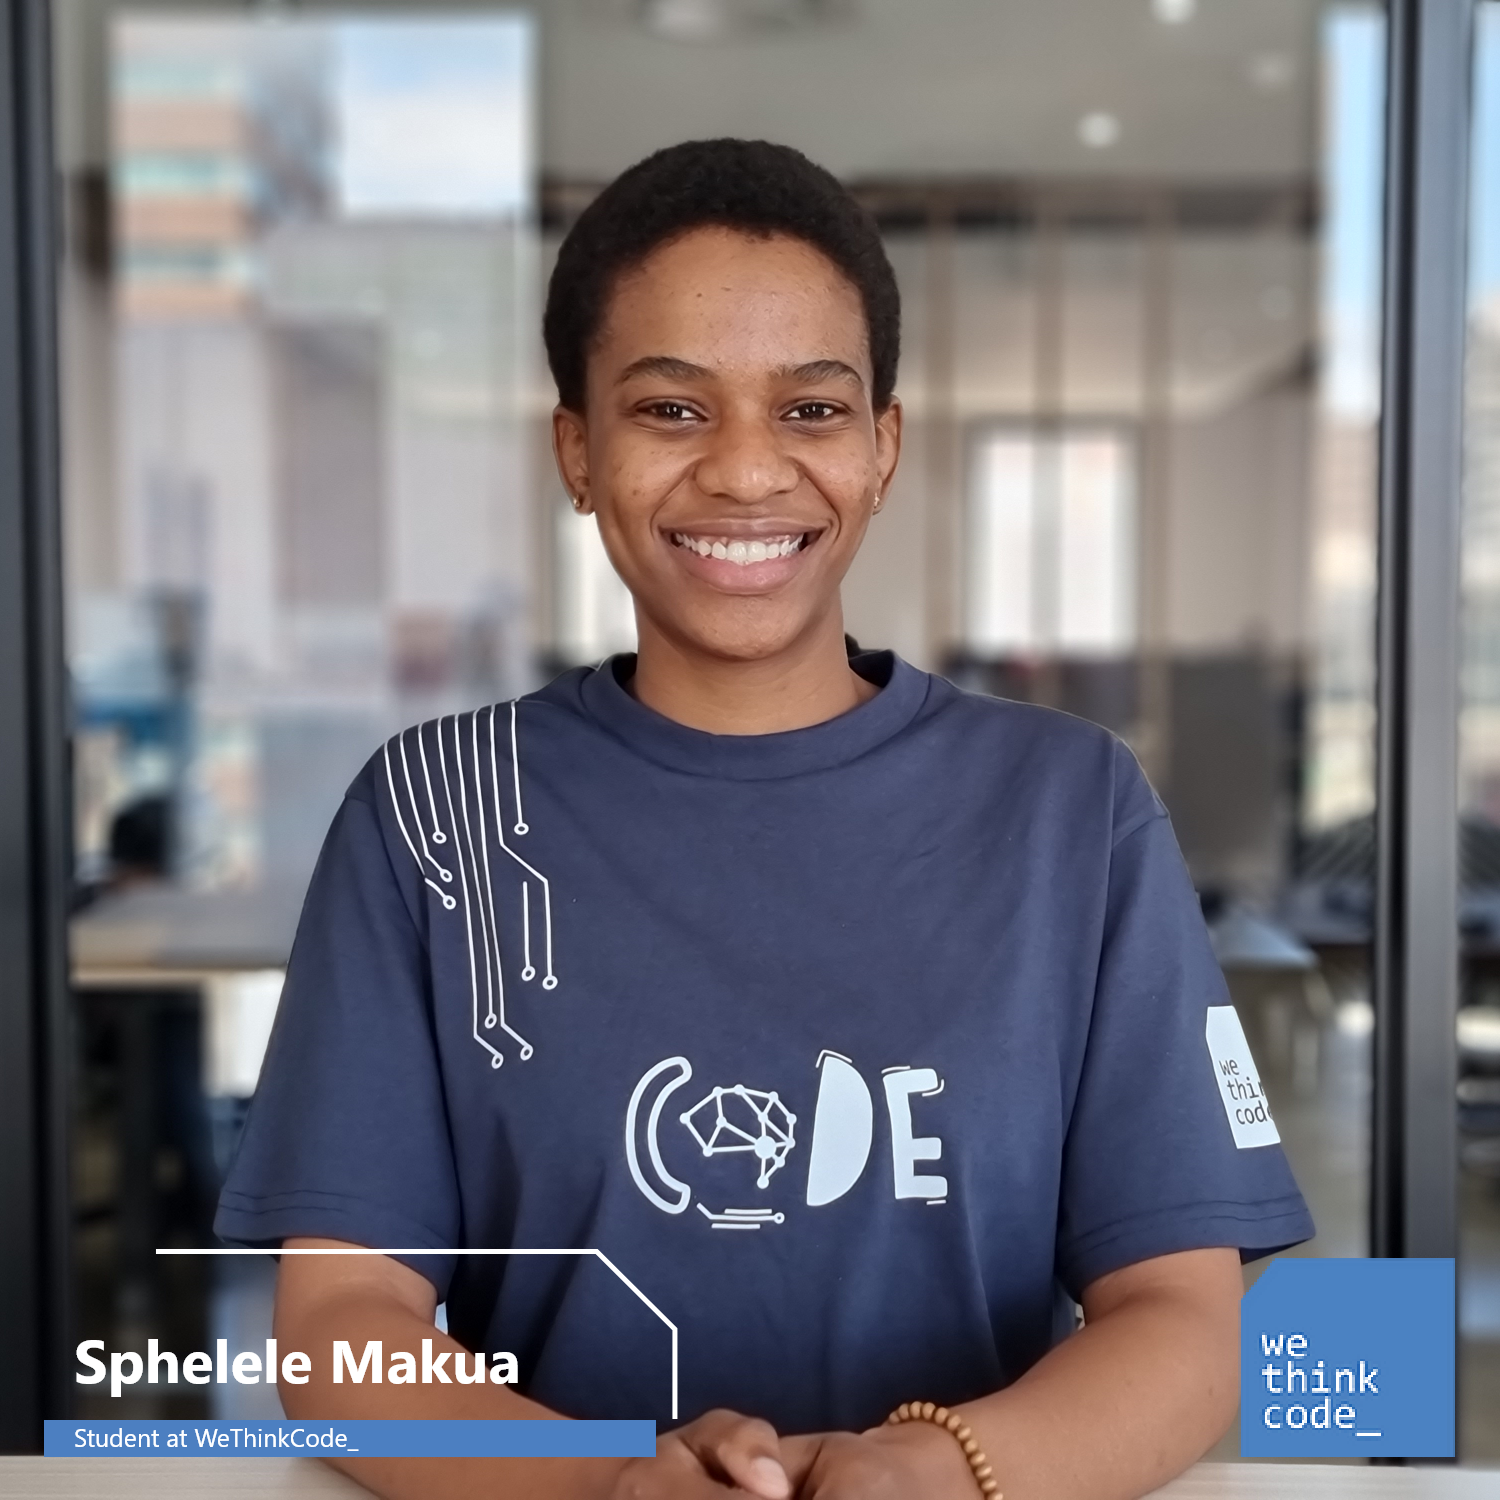
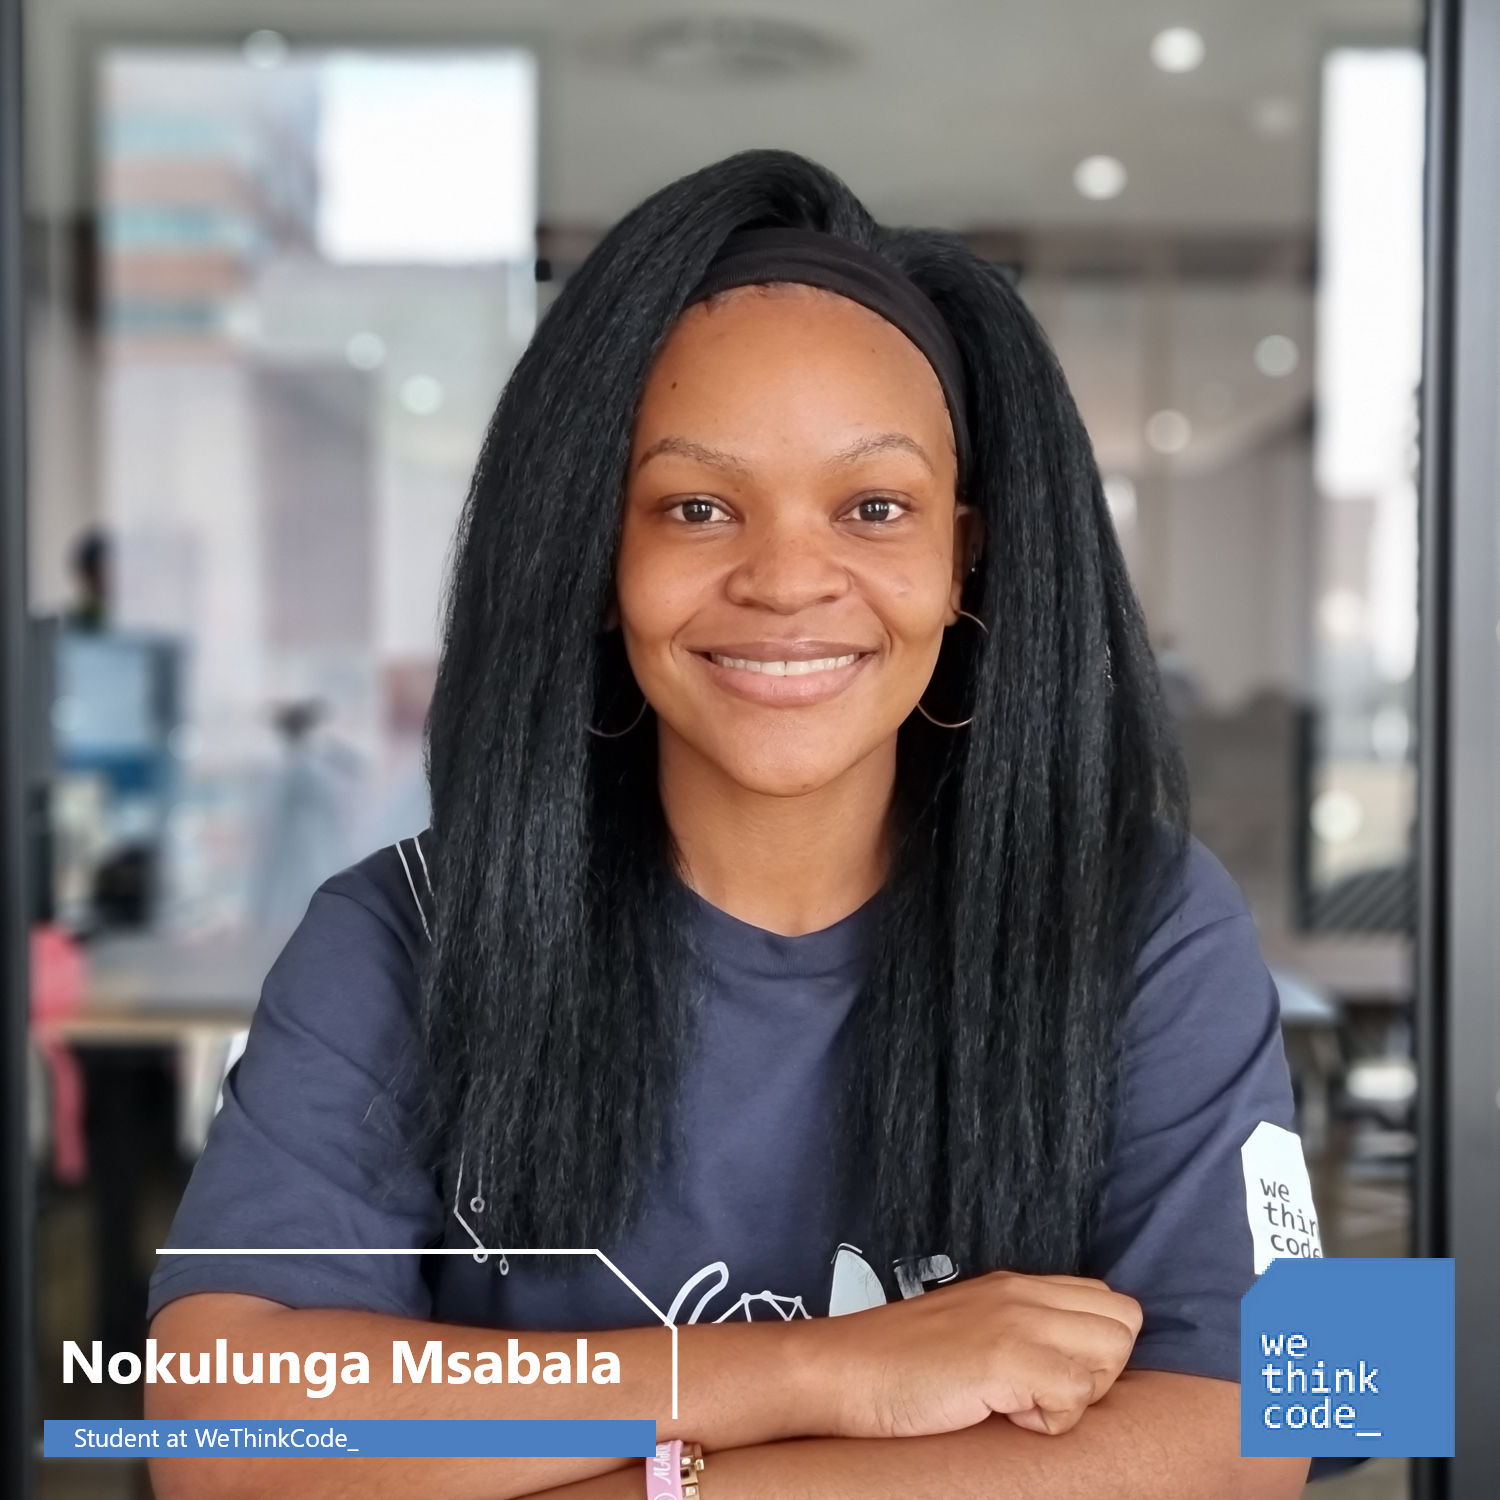
Finished Profile Component

diff --git a/app/components/ProfilePage.vue b/app/components/ProfilePage.vue
@@ -1,0 +1,161 @@
+<template>
+  <Page class="page view">
+    <ActionBar />
+    <GridLayout rows="auto, *" columns="*">
+      <StackLayout class="home-page-container">
+        <StackLayout class="carousel-bottoms white bg-white">
+          <Image
+            class="carousel-img w-60 h-60 mt-5 rounded-full z-50"
+            src="~/asserts/img/student.png"
+            stretch="aspectFill"
+          />
+
+          <StackLayout class="bottoms rounded-t-3xl rounded-b-3xl p-2">
+            <StackLayout>
+              <GridLayout
+                v-for="(item, index) in accounts"
+                :key="index"
+                columns="auto"
+                rows="*"
+                :class="item.wrapper"
+                @tap="onNavigationItemTap(item.page)"
+              >
+                <FlexboxLayout col="0" class="bottom items-center ml-5">
+                  <Image
+                    class="livebetter w-10 h-10 mr-5"
+                    :src="item.image"
+                    stretch="aspectFill"
+                  />
+                  <StackLayout>
+                    <Label :text="item.cohort" :class="item.style" />
+                    <Label :text="item.name" class="text-gray-700 text-base font-bold" />
+                    <FlexboxLayout>
+                      <Label text="Gender : " class="text-gray-700 font-bold text-base" />
+                      <Label :text="item.gender" class="text-gray-600 text-base" />
+                    </FlexboxLayout>
+                    <FlexboxLayout>
+                      <Label
+                        text="Performance : "
+                        class="text-gray-700 font-bold text-base"
+                      />
+                      <Label :text="item.status" class="text-gray-600 text-base" />
+                    </FlexboxLayout>
+                    <FlexboxLayout class="mt-4">
+                      <Label
+                        col="0"
+                        text.decode="&#xf005;"
+                        class="w-10 text-yellow-400 nt-icon fas text-sm"
+                      />
+                      <Label
+                        col="0"
+                        text.decode="&#xf005;"
+                        class="w-10 text-yellow-400 nt-icon fas text-sm"
+                      />
+                      <Label
+                        col="0"
+                        text.decode="&#xf005;"
+                        class="w-10 text-yellow-400 nt-icon fas text-sm"
+                      />
+                      <Label
+                        col="0"
+                        text.decode="&#xf089;"
+                        class="w-10 text-yellow-400 nt-icon fas text-sm"
+                      />
+                    </FlexboxLayout>
+                  </StackLayout>
+                </FlexboxLayout>
+              </GridLayout>
+
+              <GridLayout
+                v-for="(item, index) in accounts"
+                :key="index"
+                columns="auto"
+                rows="*"
+                :class="item.wrapper"
+                @tap="onNavigationItemTap(item.page)"
+              >
+                <FlexboxLayout col="0" class="bottom items-center ml-5">
+                  <StackLayout>
+                    <Label :text="item.campus" :class="item.style" />
+                    <Label :text="item.username" class="text-gray-600 text-base" />
+                    <Label :text="item.email" class="text-gray-600 text-base" />
+                    <FlexboxLayout>
+                      <Label
+                        text="Elective : "
+                        class="text-gray-700 font-bold text-base"
+                      />
+                      <Label :text="item.elective" class="text-gray-600 text-base" />
+                    </FlexboxLayout>
+                  </StackLayout>
+                </FlexboxLayout>
+              </GridLayout>
+            </StackLayout>
+          </StackLayout>
+        </StackLayout>
+      </StackLayout>
+    </GridLayout>
+  </Page>
+</template>
+
+<script>
+import ActionBar from "./ActionBar";
+import YearOnePage from "./YearOnePage";
+import YearTwoPage from "./YearTwoPage";
+import { showDrawer } from "~/shared/utils";
+
+export default {
+  data() {
+    return {
+      YearOnePage: YearOnePage,
+      YearTwoPage: YearTwoPage,
+      accounts: [
+        {
+          cohort: "Cohort : 2021",
+          campus: "Campus : Durban",
+          name: "Nokulunga Msabala",
+          gender: "Female",
+          username: "nokmsaba021",
+          email: "nokmsaba021@student.wethinkcode.co.za",
+          elective: "Quality Assurance",
+          status: "Excelling",
+          image: "~/asserts/img/user.png",
+          wrapper: "bottom bg-white mt-4 py-2 rounded-t-3xl rounded-b-3xl",
+          style: "bottom-title text-lg mb-2 text-blue-500 font-extrabold",
+          page: YearOnePage,
+        },
+      ],
+    };
+  },
+
+  methods: {
+    onNavigationItemTap(component) {
+      this.$navigateTo(component, {
+        clearHistory: false,
+      });
+    },
+
+    onDrawerButtonTap() {
+      showDrawer();
+    },
+  },
+
+  components: {
+    ActionBar,
+  },
+};
+</script>
+
+<style scoped lang="css">
+.carousel-bottoms .bottoms {
+  margin-top: -10px;
+}
+.carousel-bottoms .bottoms-description {
+  margin-top: -40px;
+}
+.size-button {
+  background-color: #f7f7f7;
+}
+.bottoms {
+  background-color: #f7f7f7;
+}
+</style>

diff --git a/app/components/HomePage.vue b/app/components/HomePage.vue
@@ -53,6 +53,7 @@
       <FlexboxLayout row="1" class="px-4 justify-center items-center">
         <GridLayout columns="*,*,*" rows="70" class="action-button">
           <FlexboxLayout
+            @tap="onNavigationItemTap(ProfilePage)"
             col="0"
             class="size-button justify-center items-center rounded-xl mr-1"
           >
@@ -90,6 +91,7 @@
 import ActionBar from "./ActionBar";
 import YearOnePage from "./YearOnePage";
 import YearTwoPage from "./YearTwoPage";
+import ProfilePage from "./ProfilePage";
 import { showDrawer } from "~/shared/utils";
 
 export default {
@@ -97,6 +99,7 @@ export default {
     return {
       YearOnePage: YearOnePage,
       YearTwoPage: YearTwoPage,
+      ProfilePage: ProfilePage,
       accounts: [
         {
           name: "First Year",
@@ -113,7 +116,7 @@ export default {
           image: "~/asserts/img/livebetter.png",
           score: "Score: 4.4",
           wrapper: "bottom bg-white rounded-t-3xl rounded-b-3xl mt-2",
-          style: "bottom-title text-base text-blue-700 font-extrabold",
+          style: "bottom-title text-base text-blue-500 font-extrabold",
           page: YearTwoPage,
         },
         {
@@ -126,8 +129,17 @@ export default {
         },
         {
           name: "Reviews",
+          status: "Completed",
           image: "~/asserts/img/credit.png",
           score: "Total: 36",
+          wrapper: "bottom bg-white rounded-t-3xl rounded-b-3xl mt-2",
+          style: "bottom-title text-base text-blue-400 font-extrabold",
+        },
+        {
+          name: "Progress Report",
+          status: "Available",
+          image: "~/asserts/img/credit.png",
+          score: "Total: 3",
           wrapper: "bottom bg-white rounded-t-3xl rounded-b-3xl mt-2",
           style: "bottom-title text-base text-blue-400 font-extrabold",
         },

diff --git a/app/components/DrawerContent.vue b/app/components/DrawerContent.vue
@@ -36,7 +36,7 @@
         <GridLayout
           columns="50, *"
           class="py-3 pl-3"
-          @tap="onNavigationItemTap(HomePage)"
+          @tap="onNavigationItemTap(YearOnePage)"
         >
           <Label col="0" text.decode="&#xf51c;" class="w-10 nt-icon fas text-lg" />
           <Label col="1" text="Year One" class="font-bold text-base" />
@@ -45,7 +45,7 @@
         <GridLayout
           columns="50, *"
           class="py-3 pl-3"
-          @tap="onNavigationItemTap(HomePage)"
+          @tap="onNavigationItemTap(YearTwoPage)"
         >
           <Label col="0" text.decode="&#xf51c;" class="w-10 nt-icon fas text-lg" />
           <Label col="1" text="Year Two" class="font-bold text-base" />
@@ -134,6 +134,7 @@ import HomePage from "./HomePage";
 import Faq from "./FaqPage";
 import LoginPage from "./LoginPage";
 import YearOnePage from "./YearOnePage";
+import YearTwoPage from "./YearTwoPage";
 import SimplePayPage from "./SimplePayPage";
 import LmsUpdatePage from "./LmsUpdatePage";
 
@@ -144,6 +145,7 @@ export default {
       Faq: Faq,
       LoginPage: LoginPage,
       YearOnePage: YearOnePage,
+      YearTwoPage: YearTwoPage,
       SimplePayPage: SimplePayPage,
       LmsUpdatePage: LmsUpdatePage,
     };

diff --git a/app/components/ActionBar.vue b/app/components/ActionBar.vue
@@ -23,7 +23,7 @@
       <FlexboxLayout
         col="1"
         class="justify-center items-center"
-        @tap="onNavigationItemTap()"
+        @tap="onNavigationItemTap(HomePage)"
       >
         <StackLayout :class="active">
           <Image class="capiteclogo w-8" src="~/asserts/img/wtc-logo.png" />
@@ -34,11 +34,13 @@
 </template>
 
 <script>
+import HomePage from "./HomePage";
 import { showDrawer } from "~/shared/utils";
 
 export default {
   data() {
     return {
+      HomePage: HomePage,
       active: "active-icon bg-white pt-3 px-3 rounded-tl-full rounded-tr-full",
       inactive: "inactive-icon fas text-blue-400 text-center text-xl font-extrabold",
     };
